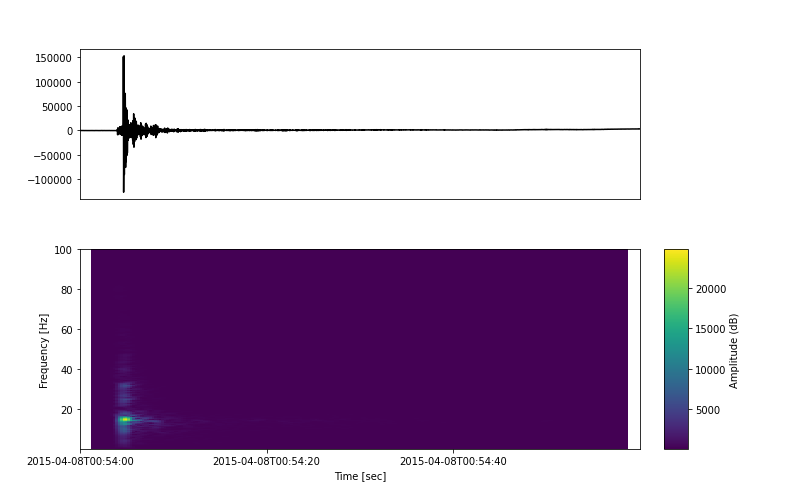
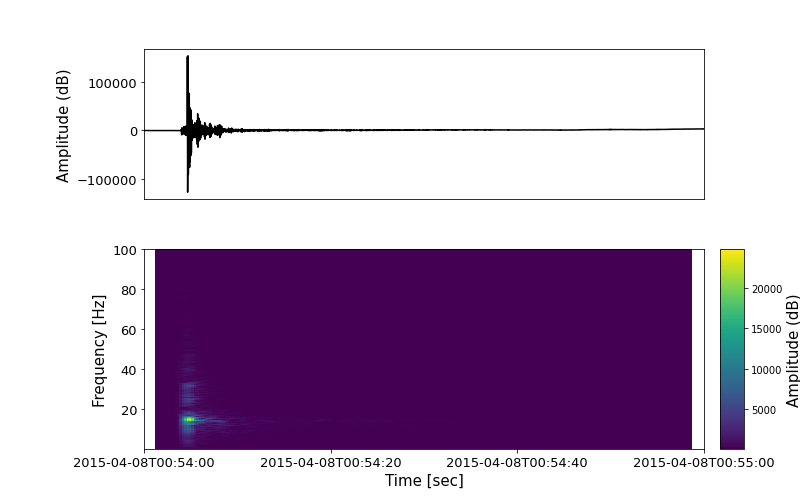
warning dialog for exceeeding compare view

diff --git a/assets/dashExtensions_default.js b/assets/dashExtensions_default.js
@@ -29,6 +29,36 @@ window.dashExtensions = Object.assign({}, window.dashExtensions, {
             return L.marker(latlng, {
                 icon: antenna
             });
+        },
+        function3: function(feature, latlng, context) {
+            const {
+                min,
+                max,
+                colorscale,
+                circleOptions,
+                colorProp
+            } = context.props.hideout;
+            const csc = chroma.scale(colorscale).domain([min, max]); // chroma lib to construct colorscale
+            circleOptions.fillColor = csc(feature.properties[colorProp]); // set color based on color prop.
+            return L.circleMarker(latlng, circleOptions); // sender a simple circle marker.
+        },
+        function4: function(feature, latlng) {
+            const antenna = L.icon({
+                iconUrl: `/static/antenna_img.png`,
+                iconSize: [24, 24]
+            });
+            return L.marker(latlng, {
+                icon: antenna
+            });
+        },
+        function5: function(feature, latlng) {
+            const antenna = L.icon({
+                iconUrl: `/static/antenna_img.png`,
+                iconSize: [40, 40]
+            });
+            return L.marker(latlng, {
+                icon: antenna
+            });
         }
     }
 });

diff --git a/app.py b/app.py
@@ -103,7 +103,6 @@ return L.marker(latlng, {icon: antenna});
 
 
 #app = Dash(external_scripts=[chroma],external_stylesheets=[dbc.themes.BOOTSTRAP] ,prevent_initial_callbacks=True)
-
 import dash_leaflet as dl
 from dash import Dash, html, dcc, Output, Input
 from dash_extensions.javascript import assign
@@ -238,6 +237,22 @@ app.layout = html.Div([dbc.Row( id = 'filter-row', children = [#Filters|
                                             )
                                             ],
                                             id = "event-no-match-modal",
+                                            is_open = False,
+                                            centered=True
+                                        ),
+                                #TODO: if we want to close a div, we should define a pattern matching callback (https://dash.plotly.com/pattern-matching-callbacks)
+                                #https://medium.com/plotly/pattern-matching-callbacks-in-dash-9014eee99858
+                                dbc.Modal( 
+                                            [
+                                            dbc.ModalHeader(
+                                                dbc.ModalTitle("Warning"), close_button=True
+                                            ),
+                                            dbc.ModalBody(
+                                                children = 'Number of comparable events (6) has been exceeded. In order to add new elements, click on "Clear selection" to remove the previous elements',
+                                                id="compare-view-limit-exceed-alert"                                                
+                                            )
+                                            ],
+                                            id = "compare-view-limit-exceed-modal",
                                             is_open = False,
                                             centered=True
                                         ),
@@ -400,6 +415,7 @@ def switch_view(button_value):
             Output('multi-view-row', 'children'),            
             Output(component_id="event-no-match-alert", component_property= 'children'),
             Output(component_id="event-no-match-modal", component_property= 'is_open'),    
+            Output(component_id="compare-view-limit-exceed-modal", component_property= 'is_open'),   
 
         
             Input("earthquake_events_geojson", "click_feature"),
@@ -421,13 +437,18 @@ def select_event(clicked_event,clicked_detail_event,click_compare_button,current
     ctx = dash.callback_context
     clicked_element = ctx.triggered[0]['prop_id'].split('.')[0]
     alert_state = False
+    compare_view_exceed_state = False
     audio_player_style = {}
     if clicked_element == "earthquake_events_geojson":
         if ctx.triggered[0]['value'] is not None:
-            if ctx.triggered[0]['value']['properties']['cluster'] is True:
-                return dash.no_update
-            else:
-                clicked_event = ctx.triggered[0]['value']
+            try:
+                if ctx.triggered[0]['value']['properties']['cluster'] is True:
+                    return dash.no_update
+                else:
+                    clicked_event = ctx.triggered[0]['value']
+            except KeyError:
+                print(ctx.triggered[0]['value'])
+                raise KeyError
     
     if clicked_element == "detail_map_earthquake_geojson":
         clicked_event = ctx.triggered[0]['value']
@@ -436,7 +457,7 @@ def select_event(clicked_event,clicked_detail_event,click_compare_button,current
         cleared_elements = [html.Div(html.Button('Clear selection', id='clear-compare-view', n_clicks=0),style={'vertical-align': 'top'})]
         
         
-        return [current_event_table ,current_seismogram_image,current_audio_src,audio_div_element,cleared_elements, current_alert_msg, alert_state]
+        return [current_event_table ,current_seismogram_image,current_audio_src,audio_div_element,cleared_elements, current_alert_msg, alert_state,compare_view_exceed_state]
 
     if clicked_event is not None:
         selected_trace_name = clicked_event['properties']['trace_name']
@@ -474,10 +495,10 @@ def select_event(clicked_event,clicked_detail_event,click_compare_button,current
             #return dash.no_update
         if current_view == 'simple':
         #return [table_data,seismic_plot,spectrogram_plot,audio_src,audio_player_style,div_simple_row_style,div_multi_row_style,div_multi_row_elements]
-            return [table_data,seismic_plot,audio_src,audio_player_style,div_multi_row_elements, current_alert_msg, alert_state]
+            return [table_data,seismic_plot,audio_src,audio_player_style,div_multi_row_elements, current_alert_msg, alert_state,compare_view_exceed_state]
 
         elif current_view == 'multi':
-            if len(div_multi_row_elements) < 5:
+            if len(div_multi_row_elements) < 7:
                  
                 
                 if alert_state is False:
@@ -509,11 +530,12 @@ def select_event(clicked_event,clicked_detail_event,click_compare_button,current
                                     
                     div_multi_row_elements.append(new_div)           
 
-
-                return [table_data,seismic_plot,audio_src,audio_player_style,div_multi_row_elements, current_alert_msg, alert_state]
+                return [table_data,seismic_plot,audio_src,audio_player_style,div_multi_row_elements, current_alert_msg, alert_state,compare_view_exceed_state]
             #TODO:currently just no update, but some warning dialog will be implemented later
             else:
-                return dash.no_update
+                compare_view_exceed_state = True
+                return [table_data,seismic_plot,audio_src,audio_player_style,div_multi_row_elements, current_alert_msg, alert_state,compare_view_exceed_state]
+                #return dash.no_update
 
          
     else:

diff --git a/map_helper_functions.py b/map_helper_functions.py
@@ -55,32 +55,39 @@ def create_waveform_spectrogram(waveform):
     #wf = fig_to_uri(waveform)
 
     fig = plt.figure(figsize=(800*px, 500*px))
-    ax1 = fig.add_axes([0.1, 0.6, 0.7, 0.3]) #[left bottom width height]
-    ax2 = fig.add_axes([0.1, 0.1, 0.7, 0.40],sharex = ax1)
-    ax3 = fig.add_axes([0.83, 0.1, 0.03, 0.40])
+    #ax1 = fig.add_axes([0.1, 0.6, 0.7, 0.3]) #[left bottom width height]
+    #ax2 = fig.add_axes([0.1, 0.1, 0.7, 0.40],sharex = ax1)
+    #ax3 = fig.add_axes([0.83, 0.1, 0.03, 0.40])
+    ax1 = fig.add_axes([0.18, 0.6, 0.7, 0.3]) #[left bottom width height]
+    ax2 = fig.add_axes([0.18, 0.1, 0.7, 0.40],sharex = ax1)
+    ax3 = fig.add_axes([0.9, 0.1, 0.03, 0.40])
 
     #make time vector
     t = np.arange(waveform.stats.npts) / waveform.stats.sampling_rate
-    time_split = np.arange(np.datetime64(waveform.stats['starttime']), np.datetime64(waveform.stats['endtime']), timedelta(seconds=20)).astype('datetime64[s]')
+    time_split = list(np.arange(np.datetime64(waveform.stats['starttime']), np.datetime64(waveform.stats['endtime']), timedelta(seconds=20)).astype('datetime64[s]'))
+    time_split.append(np.datetime64(waveform.stats['endtime']).astype('datetime64[s]'))
     #plot waveform (top subfigure)    
     ax1.plot(t, waveform.data, 'k')
     #ax1.plot(waveform.data)
-    ax1.set_xticks(np.arange(0,60)[::20])
+    ax1.set_xticks(np.arange(0,61)[::20])
     ax1.set_xticklabels(time_split)
     ax1.get_xaxis().set_visible(False)
+    ax1.set_ylabel('Amplitude (dB)', fontsize=18)
+    ax1.tick_params(axis='y', labelsize=13)
 
     #plot spectrogram (bottom subfigure)
     #spl2 = waveform
     #spl2.spectrogram(show=False, axes=ax2)
-    #ax2.specgram(x = waveform.filter("highpass", freq=0.5).data, Fs = waveform.stats.sampling_rate,scale = 'dB',cmap = 'viridis')
     waveform.filter("highpass", freq=0.5).spectrogram(show = False, axes = ax2)
-    ax2.set_xlabel('Time [sec]')
-    ax2.set_ylabel('Frequency [Hz]')
+    #ax2.specgram(x = waveform.filter("highpass", freq=0.5).data, Fs = waveform.stats.sampling_rate,scale = 'dB',cmap = 'viridis')
+    ax2.set_xlabel('Time [sec]', fontsize=15)
+    ax2.set_ylabel('Frequency [Hz]', fontsize=15)
     #ax2.set_title('')
-    ax2.set_xticks(np.arange(0,60)[::20])
-    ax2.set_xticklabels(time_split)
+    ax2.set_xticks(np.arange(0,61)[::20])
+    ax2.set_xticklabels(time_split, fontsize=13)
+    ax2.tick_params(axis='y', labelsize=13)
     mappable = ax2.images[0]
-    plt.colorbar(mappable=mappable, cax=ax3,label = 'Amplitude (dB)')
+    plt.colorbar(mappable=mappable, cax=ax3).set_label(size=15,label = 'Amplitude (dB)')
     out_img = BytesIO()
     
     fig.savefig(out_img, format='png')
